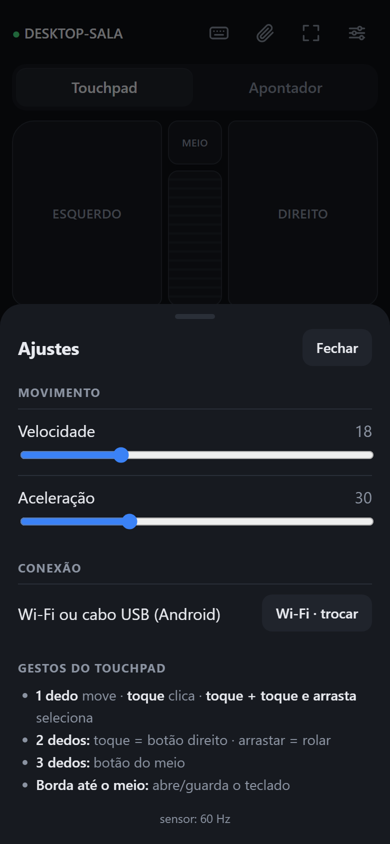
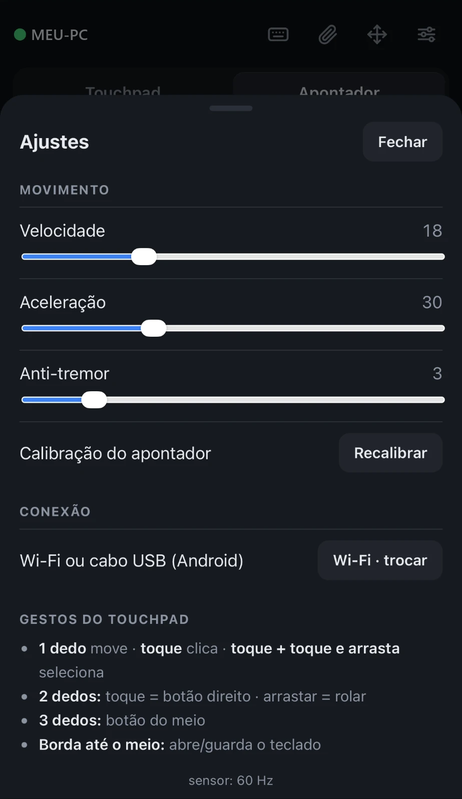
README: prints reais do app e exemplo da notificação
Prints do iPhone recortados só na área do app (sem barra do navegador
e IP) e com o nome do PC trocado por MEU-PC; notificação ilustrada sem
o papel de parede.

diff --git a/README.en.md b/README.en.md
@@ -9,8 +9,9 @@ install on the phone**. Touchpad with gestures, gyroscope pointer, full keyboard
 **file transfer both ways**, fullscreen, game-friendly admin mode and PIN-protected access.
 
 <p align="center">
-  <img src="docs/tela-touchpad.png" width="260" alt="Main screen: touchpad, buttons and scroll wheel">
-  <img src="docs/tela-ajustes.png" width="260" alt="Settings panel">
+  <img src="docs/tela-touchpad.png" width="230" alt="Touchpad with buttons and scroll wheel">
+  <img src="docs/tela-apontador.png" width="230" alt="Pointer mode">
+  <img src="docs/tela-ajustes.png" width="230" alt="Settings panel">
 </p>
 
 > The interface is currently in **Brazilian Portuguese**. Contributions with translations are welcome!
@@ -60,6 +61,11 @@ The installer: installs Python if missing (winget or python.org) and the depende
   (portrait: side edges · landscape: top/bottom edges)
 - ⛶ fullscreen and ⟳ to rotate the screen (portrait → landscape → other side)
 
+<p align="center">
+  <img src="docs/tela-cheia.png" width="230" alt="Fullscreen touchpad">
+  <img src="docs/tela-horizontal.png" width="230" alt="Fullscreen touchpad rotated to landscape">
+</p>
+
 ### Keyboard
 Types on the PC with accents, autocorrect and emoji. Bar with Esc, Tab, Ctrl, Alt, Shift, Win, arrows
 and Del (tap the modifier, then the key, e.g. Ctrl → `c`). When the page itself is rotated, a built-in
@@ -80,6 +86,9 @@ Each PC has a **6-digit PIN**. Without it nobody can control the PC, even on the
 - After 5 wrong PINs, the device is blocked for 1 minute.
 
 ## Phone notification
+
+<p align="center"><img src="docs/notificacao.png" width="400" alt="Example of the phone notification"></p>
+
 On first run a page opens with QR codes to **download [ntfy](https://ntfy.sh)** (Google Play and App
 Store) and, next to them, to **subscribe to your topic** (Android: QR code; iPhone: copy the topic →
 in the app **+** → topic → **Subscribe**). To open it again: tray icon → *Configurar notificação no celular*.

diff --git a/README.md b/README.md
@@ -9,8 +9,9 @@ Touchpad com gestos, apontador por giroscópio, teclado com acentos, **envio de 
 sentidos, tela cheia, modo para jogos e acesso protegido por PIN.
 
 <p align="center">
-  <img src="docs/tela-touchpad.png" width="260" alt="Tela principal: touchpad, botões e roda de rolagem">
-  <img src="docs/tela-ajustes.png" width="260" alt="Painel de ajustes">
+  <img src="docs/tela-touchpad.png" width="230" alt="Touchpad com botões e roda de rolagem">
+  <img src="docs/tela-apontador.png" width="230" alt="Modo Apontador">
+  <img src="docs/tela-ajustes.png" width="230" alt="Painel de ajustes">
 </p>
 
 ## Instalação rápida (Windows)
@@ -57,6 +58,11 @@ O instalador: instala o Python se faltar (winget ou python.org) e as dependênci
   (na vertical: bordas laterais · na horizontal: bordas de cima/baixo)
 - ⛶ tela cheia e ⟳ para virar a tela (vertical → horizontal → outro lado)
 
+<p align="center">
+  <img src="docs/tela-cheia.png" width="230" alt="Touchpad em tela cheia">
+  <img src="docs/tela-horizontal.png" width="230" alt="Touchpad em tela cheia, girado na horizontal">
+</p>
+
 ### Teclado
 Digita no PC com acentos, corretor e emoji. Barra com Esc, Tab, Ctrl, Alt, Shift, Win, setas e Del
 (toque no modificador e depois na tecla, ex.: Ctrl → `c`). Com a tela girada pela página, usa um
@@ -77,6 +83,9 @@ Cada PC tem um **PIN de 6 dígitos**. Sem ele ninguém controla o PC, mesmo esta
 - Após 5 PINs errados, o aparelho fica bloqueado por 1 minuto.
 
 ## Notificação no celular
+
+<p align="center"><img src="docs/notificacao.png" width="400" alt="Exemplo da notificação no celular"></p>
+
 Na primeira execução abre uma página com QR codes para **baixar o [ntfy](https://ntfy.sh)** (Google Play e
 App Store) e, ao lado, para **assinar o tópico** (Android: QR code; iPhone: tópico para copiar → no app
 **+** → tópico → **Subscribe**). Para abrir de novo: ícone da bandeja → *Configurar notificação no celular*.
